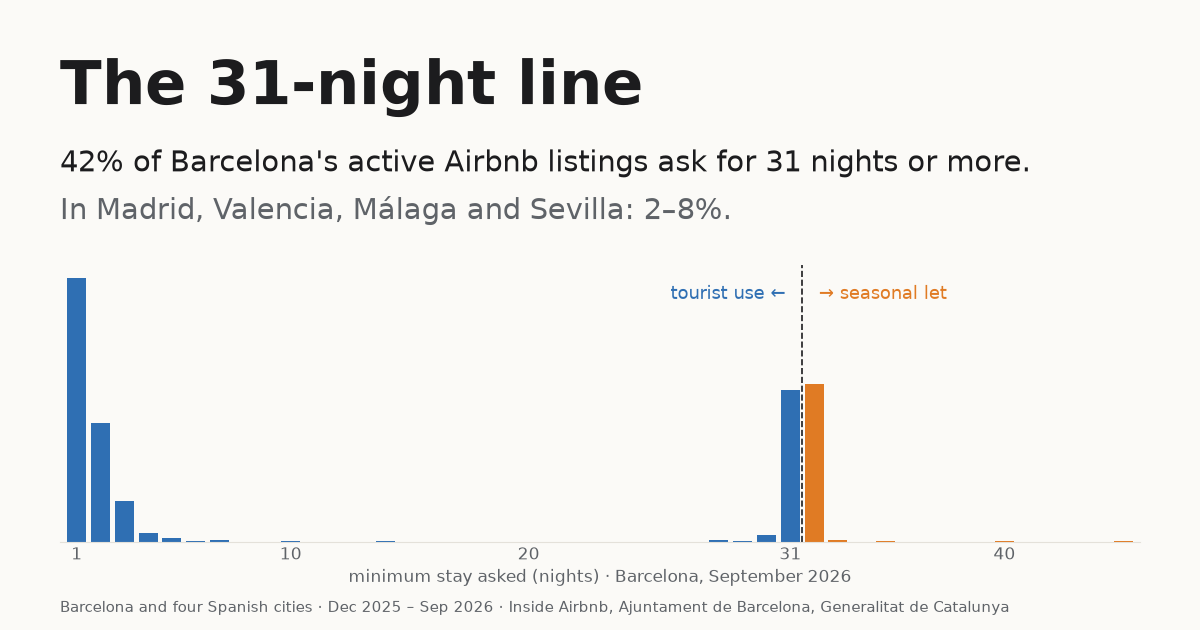
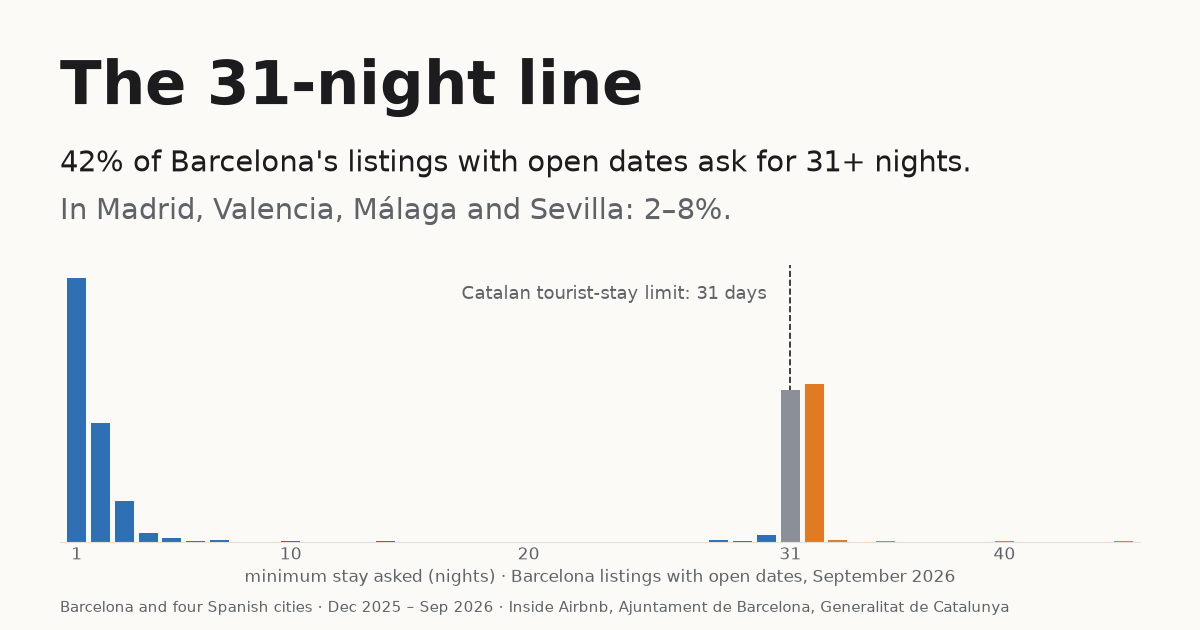
social image coloured by minimum stay asked, not by legality

diff --git a/scripts/make_social_image.py b/scripts/make_social_image.py
@@ -27,7 +27,7 @@ OTHER_CITIES = ["madrid", "valencia", "malaga", "sevilla"]
 
 # Same palette as the site's light theme (site/src/styles.css).
 BG, TEXT, MUTED = "#fbfaf7", "#1c1c1e", "#5f6368"
-TOURIST, SEASONAL = "#2f6fb3", "#e07b24"
+UNDER, EXACT, OVER = "#2f6fb3", "#8a8f98", "#e07b24"
 
 
 def load(name: str):
@@ -61,7 +61,7 @@ def main() -> None:
     fig.text(
         0.05,
         0.74,
-        f"{barcelona_share:.0f}% of Barcelona's active Airbnb listings ask for 31 nights or more.",
+        f"{barcelona_share:.0f}% of Barcelona's listings with open dates ask for 31+ nights.",
         fontsize=21,
         color=TEXT,
         va="center",
@@ -78,31 +78,27 @@ def main() -> None:
     ax = fig.add_axes((0.05, 0.14, 0.9, 0.44), facecolor=BG)
     xs = [r["nights"] for r in shown]
     ys = [r["listings"] / total * 100 for r in shown]
-    colours = [TOURIST if n <= cfg.MAX_TOURIST_NIGHTS else SEASONAL for n in xs]
+    # Colour by what listings ask (under 31 / exactly 31 / over 31 nights),
+    # never by legality: a minimum stay is a setting, not a legal finding.
+    colours = [
+        UNDER if n < cfg.STAY_LINE_NIGHTS else (EXACT if n == cfg.STAY_LINE_NIGHTS else OVER)
+        for n in xs
+    ]
     ax.bar(xs, ys, color=colours, width=0.8)
-    ax.axvline(cfg.MAX_TOURIST_NIGHTS + 0.5, color=TEXT, linestyle="--", linewidth=1.2)
-    # One label each side of the line, pointing at its own side.
+    ax.axvline(cfg.STAY_LINE_NIGHTS, color=TEXT, linestyle="--", linewidth=1.2, zorder=0)
     ax.text(
-        cfg.MAX_TOURIST_NIGHTS - 0.2,
+        cfg.STAY_LINE_NIGHTS - 1,
         max(ys) * 0.92,
-        "tourist use ←",
+        "Catalan tourist-stay limit: 31 days",
         fontsize=13,
-        color=TOURIST,
+        color=MUTED,
         ha="right",
-    )
-    ax.text(
-        cfg.MAX_TOURIST_NIGHTS + 1.2,
-        max(ys) * 0.92,
-        "→ seasonal let",
-        fontsize=13,
-        color=SEASONAL,
-        ha="left",
     )
     ax.set_xlim(0.3, MAX_NIGHTS_SHOWN + 0.7)
     ax.set_xticks([1, 10, 20, 31, 40])
     ax.tick_params(colors=MUTED, labelsize=12, length=0)
     ax.set_xlabel(
-        "minimum stay asked (nights) · Barcelona, September 2026",
+        "minimum stay asked (nights) · Barcelona listings with open dates, September 2026",
         fontsize=12,
         color=MUTED,
     )
